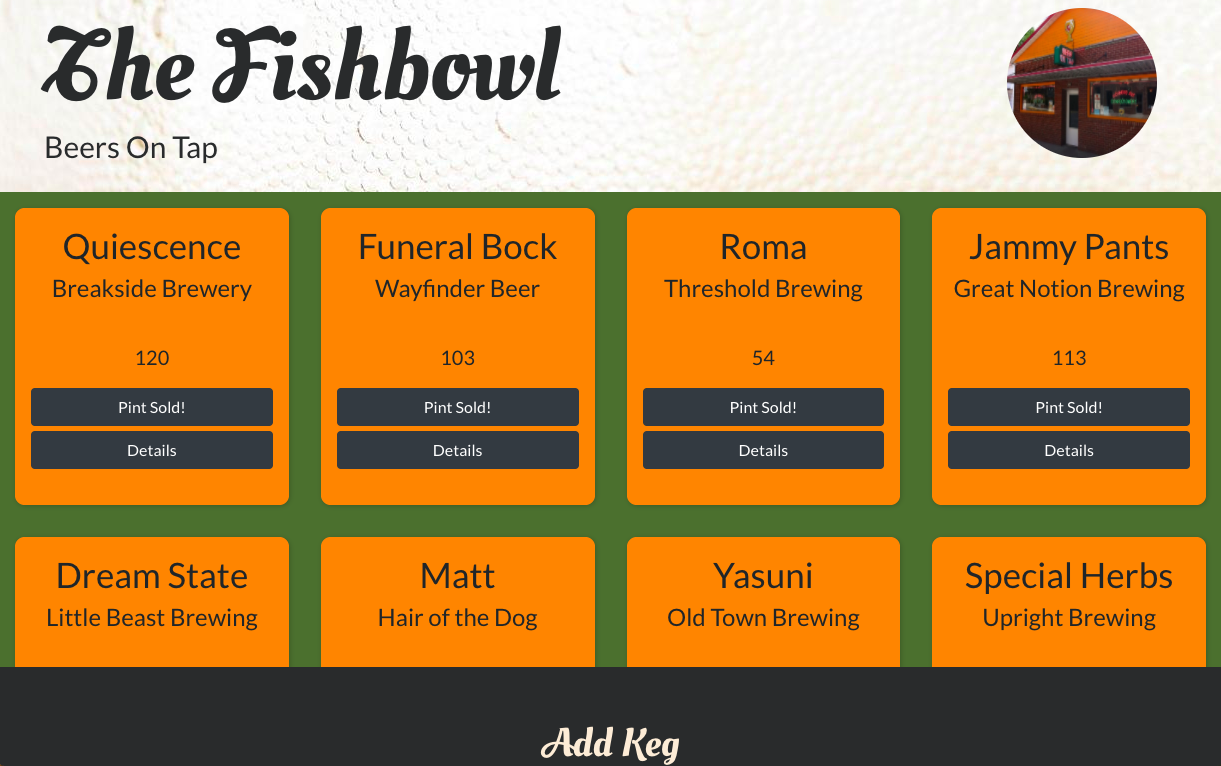
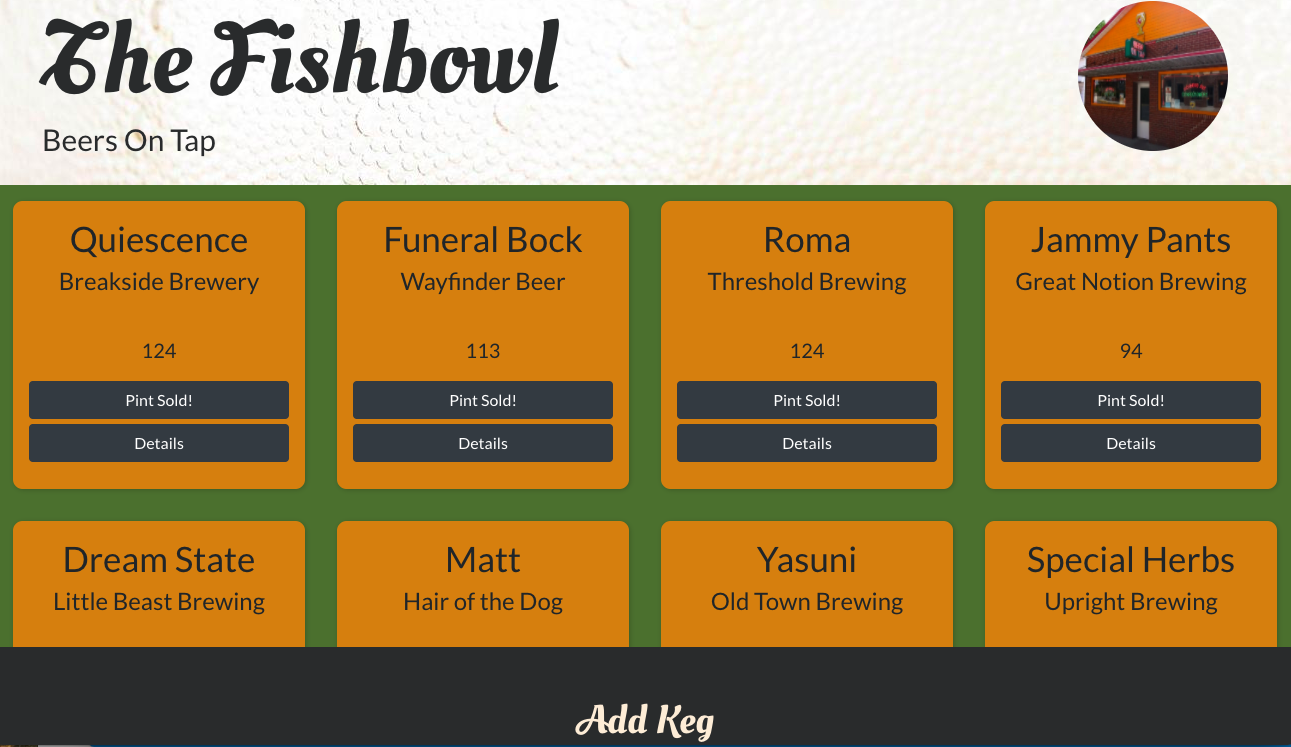
update README with new screenshot

diff --git a/src/components/Keg.js b/src/components/Keg.js
@@ -10,7 +10,7 @@ function Keg(props){
     boxShadow: '1px 1px 5px rgba(0, 0, 0, 0.2)',
     borderRadius: '.6em',
     padding: '1em',
-    backgroundColor: 'darkorange',
+    backgroundColor: 'rgba(255, 140, 0, 0.7)',
   }
 
   return (

diff --git a/src/components/KegList.js b/src/components/KegList.js
@@ -13,7 +13,6 @@ function KegList(props) {
     overflow: 'scroll',
   }
 
-
   return (
     <React.Fragment>
       <div style={kegListStyles}>
